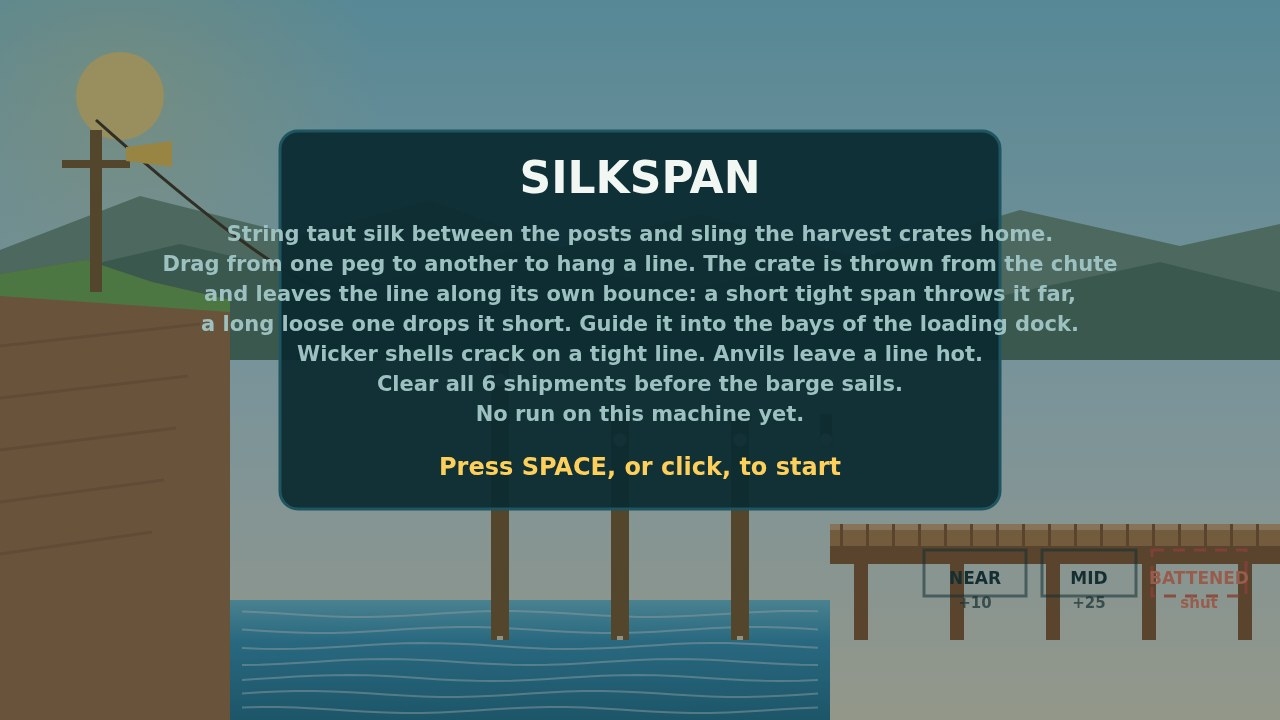
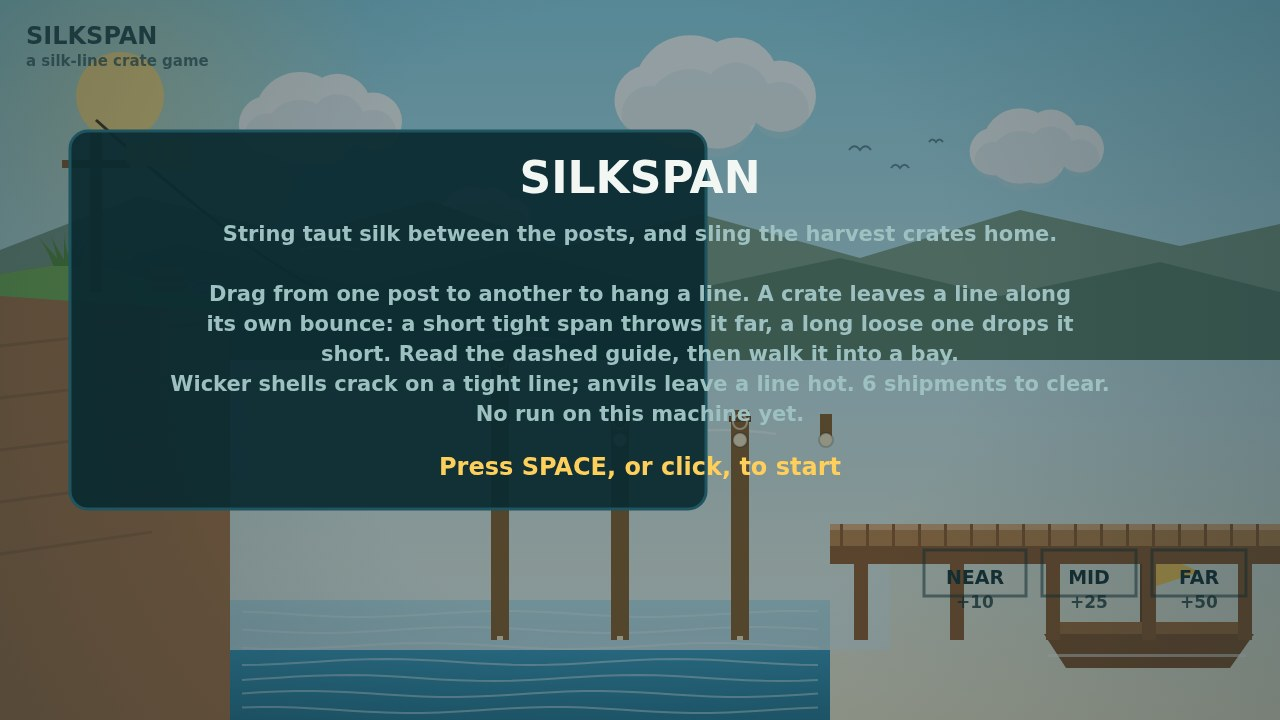
Dressing the gorge, a fuller play scene, and a README with the bounty badges

diff --git a/game/src/decor.js b/game/src/decor.js
@@ -1,0 +1,203 @@
+// The dressing that makes the gorge a place rather than a diagram: cloud banks, haze over the far
+// hills, a moored barge, foliage on the cliff, birds, the battened bays, and a frame vignette.
+// Pure drawing from constants; it never reads the game state except where a bay says it is shut.
+import { CLIFF, DOCK, FONT, PALETTE, WATER_Y, WORLD } from './config.js';
+
+/** A soft cloud bank: overlapping ellipses with a light top and a shaded underside. */
+function cloud(ctx, x, y, scale) {
+  ctx.save();
+  ctx.globalAlpha = 0.9;
+  ctx.fillStyle = '#ffffff';
+  const lobes = [
+    [0, 0, 54], [44, -12, 40], [86, 4, 34], [-38, 8, 34], [26, 14, 40],
+  ];
+  ctx.beginPath();
+  for (const [dx, dy, r] of lobes) {
+    ctx.moveTo(x + dx * scale + r * scale, y + dy * scale);
+    ctx.arc(x + dx * scale, y + dy * scale, r * scale, 0, Math.PI * 2);
+  }
+  ctx.fill();
+  ctx.globalAlpha = 0.35;
+  ctx.fillStyle = '#cfe3ea';
+  ctx.beginPath();
+  for (const [dx, dy, r] of lobes) {
+    ctx.moveTo(x + dx * scale + r * scale, y + dy * scale + r * scale * 0.5);
+    ctx.arc(x + dx * scale, y + dy * scale + r * scale * 0.4, r * scale * 0.8, 0, Math.PI * 2);
+  }
+  ctx.fill();
+  ctx.restore();
+}
+
+/** The sky's own furniture, in the order the sky wears it. */
+export function drawSkyDecor(ctx) {
+  cloud(ctx, 300, 118, 0.85);
+  cloud(ctx, 690, 92, 1.05);
+  cloud(ctx, 1020, 146, 0.7);
+  cloud(ctx, 470, 214, 0.5);
+  // A few birds riding the same air the crates do.
+  ctx.save();
+  ctx.strokeStyle = 'rgba(40,70,80,0.55)';
+  ctx.lineWidth = 2;
+  for (const [x, y, size] of [[860, 150, 11], [900, 168, 9], [936, 142, 7]]) {
+    ctx.beginPath();
+    ctx.moveTo(x - size, y);
+    ctx.quadraticCurveTo(x - size / 2, y - size * 0.7, x, y);
+    ctx.quadraticCurveTo(x + size / 2, y - size * 0.7, x + size, y);
+    ctx.stroke();
+  }
+  ctx.restore();
+}
+
+/** A band of haze along the waterline, so the far hills sit behind the gorge instead of beside it. */
+export function drawHorizonHaze(ctx) {
+  const haze = ctx.createLinearGradient(0, WATER_Y - 170, 0, WATER_Y + 10);
+  haze.addColorStop(0, 'rgba(226,242,244,0)');
+  haze.addColorStop(0.6, 'rgba(226,242,244,0.55)');
+  haze.addColorStop(1, 'rgba(226,242,244,0.8)');
+  ctx.fillStyle = haze;
+  ctx.fillRect(CLIFF.right - 60, WATER_Y - 170, DOCK.left - CLIFF.right + 120, 180);
+}
+
+/** The barge waiting at the dock, which is what the whole shipment is for. */
+export function drawBarge(ctx) {
+  const x = DOCK.right - 236;
+  const y = WATER_Y - 6;
+  ctx.save();
+  ctx.fillStyle = '#8a5a34';
+  ctx.beginPath();
+  ctx.moveTo(x, y);
+  ctx.lineTo(x + 210, y);
+  ctx.lineTo(x + 186, y + 34);
+  ctx.lineTo(x + 22, y + 34);
+  ctx.closePath();
+  ctx.fill();
+  ctx.fillStyle = '#a97445';
+  ctx.fillRect(x + 10, y - 12, 186, 12);
+  ctx.fillStyle = '#6f4c2a';
+  ctx.fillRect(x + 96, y - 86, 10, 74);
+  ctx.fillStyle = PALETTE.accent;
+  ctx.beginPath();
+  ctx.moveTo(x + 106, y - 84);
+  ctx.lineTo(x + 156, y - 62);
+  ctx.lineTo(x + 106, y - 46);
+  ctx.closePath();
+  ctx.fill();
+  ctx.fillStyle = 'rgba(255,255,255,0.55)';
+  ctx.fillRect(x + 4, y + 20, 198, 3);
+  ctx.restore();
+}
+
+/** Foliage, a couple of crates and a coiled rope, so the crew's own ledge looks worked in. */
+export function drawCliffDressing(ctx) {
+  const tuft = (x, y, scale, color) => {
+    ctx.save();
+    ctx.fillStyle = color;
+    for (let index = -2; index <= 2; index += 1) {
+      ctx.beginPath();
+      ctx.moveTo(x + index * 5 * scale, y);
+      ctx.quadraticCurveTo(x + index * 9 * scale, y - 22 * scale, x + index * 15 * scale, y - 34 * scale);
+      ctx.quadraticCurveTo(x + index * 8 * scale, y - 18 * scale, x + (index + 2) * 4 * scale, y);
+      ctx.closePath();
+      ctx.fill();
+    }
+    ctx.restore();
+  };
+  tuft(64, CLIFF.top - 34, 1.05, PALETTE.grassDark);
+  tuft(196, CLIFF.top + 2, 0.9, PALETTE.grass);
+  tuft(120, CLIFF.top - 40, 0.8, PALETTE.grass);
+  ctx.save();
+  ctx.fillStyle = '#c08a52';
+  ctx.fillRect(150, CLIFF.top - 34, 34, 26);
+  ctx.fillStyle = '#a06a3a';
+  ctx.fillRect(150, CLIFF.top - 24, 34, 5);
+  ctx.fillRect(150, CLIFF.top - 14, 34, 5);
+  ctx.fillStyle = '#8d94a3';
+  ctx.beginPath();
+  ctx.ellipse(206, CLIFF.top - 12, 18, 9, 0, 0, Math.PI * 2);
+  ctx.fill();
+  ctx.strokeStyle = '#6a7280';
+  ctx.lineWidth = 2;
+  ctx.beginPath();
+  ctx.ellipse(206, CLIFF.top - 12, 11, 5, 0, 0, Math.PI * 2);
+  ctx.stroke();
+  ctx.restore();
+}
+
+/** A bay battened down for this shipment: crossbeams, a hatch and a small tag. */
+export function drawShutBay(ctx, bay, label) {
+  const width = bay.to - bay.from;
+  const x = bay.from + 4;
+  const y = DOCK.top + 26;
+  ctx.save();
+  ctx.fillStyle = 'rgba(60,40,22,0.55)';
+  ctx.fillRect(x, y, width - 8, 46);
+  ctx.strokeStyle = 'rgba(224,92,74,0.7)';
+  ctx.lineWidth = 2;
+  for (let offset = -46; offset < width; offset += 14) {
+    ctx.beginPath();
+    ctx.moveTo(x + offset, y + 46);
+    ctx.lineTo(x + offset + 46, y);
+    ctx.stroke();
+  }
+  ctx.strokeStyle = PALETTE.dockEdge;
+  ctx.lineWidth = 6;
+  ctx.beginPath();
+  ctx.moveTo(x, y + 6);
+  ctx.lineTo(x + width - 8, y + 40);
+  ctx.moveTo(x + width - 8, y + 6);
+  ctx.lineTo(x, y + 40);
+  ctx.stroke();
+  ctx.restore();
+  label(ctx, 'BATTENED', bay.from + width / 2, DOCK.top + 20, 14, PALETTE.danger, 'center');
+}
+
+/** Combed air across the far gorge, leaning the way the gust is pushing a falling crate. */
+export function drawWindStreaks(ctx, reading = null) {
+  const lean = reading ?? 0;
+  ctx.save();
+  ctx.strokeStyle = 'rgba(255,255,255,0.5)';
+  ctx.lineWidth = 2.5;
+  for (let index = 0; index < 5; index += 1) {
+    const y = 250 + index * 46;
+    const x = 300 + index * 92 - Math.abs(lean) * 60;
+    const length = 60 + index * 12;
+    ctx.beginPath();
+    ctx.moveTo(x, y);
+    ctx.quadraticCurveTo(x + length / 2, y - 8 - lean * 6, x + length, y - lean * 12);
+    ctx.stroke();
+  }
+  ctx.restore();
+}
+
+/** A dark frame around the playfield, which gives the bright gorge some weight. */
+export function drawVignette(ctx) {
+  const vignette = ctx.createRadialGradient(WORLD.width / 2, WORLD.height * 0.45, WORLD.height * 0.45, WORLD.width / 2, WORLD.height * 0.5, WORLD.width * 0.72);
+  vignette.addColorStop(0, 'rgba(20,50,58,0)');
+  vignette.addColorStop(1, 'rgba(20,50,58,0.30)');
+  ctx.fillStyle = vignette;
+  ctx.fillRect(0, 0, WORLD.width, WORLD.height);
+}
+
+/** Small silk knots drawn on the masts, so a bare post still reads as a place to tie a line. */
+export function drawMastDressing(ctx, pegs) {
+  ctx.save();
+  for (const peg of pegs) {
+    if (peg.kind !== 'mast') continue;
+    ctx.strokeStyle = 'rgba(243,230,200,0.75)';
+    ctx.lineWidth = 2;
+    ctx.beginPath();
+    ctx.arc(peg.x, peg.y - 18, 7, 0, Math.PI * 2);
+    ctx.stroke();
+  }
+  ctx.restore();
+}
+
+/** The game's name plate, used on the title screen and nowhere else. */
+export function drawNamePlate(ctx, label) {
+  ctx.save();
+  ctx.font = `800 18px ${FONT}`;
+  ctx.fillStyle = PALETTE.ink;
+  ctx.restore();
+  label(ctx, 'SILKSPAN', 26, 44, 24, PALETTE.ink, 'left', '800');
+  label(ctx, 'a silk-line crate game', 26, 66, 15, 'rgba(29,59,63,0.75)', 'left');
+}

diff --git a/game/src/render.js b/game/src/render.js
@@ -3,6 +3,7 @@
 // fit the window and centred, so a screenshot and a play field are the same picture.
 import { CLIFF, DOCK, FONT, PALETTE, SILK, WATER_Y, WORLD } from './config.js';
 import { cablePoint, windReading } from './physics.js';
+import { drawBarge, drawCliffDressing, drawHorizonHaze, drawMastDressing, drawNamePlate, drawShutBay, drawSkyDecor, drawVignette, drawWindStreaks } from './decor.js';
 import { drawHud } from './hud.js';
 import { drawResults, drawTitle } from './screens.js';
 
@@ -152,13 +153,16 @@ export function createRenderer(canvas) {
     ctx.rotate(lean);
     ctx.fillStyle = PALETTE.accent;
     ctx.beginPath();
-    ctx.moveTo(0, -7);
-    ctx.lineTo(46, -13);
-    ctx.lineTo(46, 13);
-    ctx.lineTo(0, 7);
+    ctx.moveTo(0, -9);
+    ctx.lineTo(64, -18);
+    ctx.lineTo(64, 18);
+    ctx.lineTo(0, 9);
     ctx.closePath();
     ctx.fill();
+    ctx.fillStyle = 'rgba(255,255,255,0.35)';
+    for (let band = 0; band < 3; band += 1) ctx.fillRect(14 + band * 17, -14 + band * 1.5, 7, 28 - band * 3);
     ctx.restore();
+    drawWindStreaks(ctx, state.windReading);
     // The crate riding the cable, mid-flight down the chute.
     if (state.chute.active) {
       const point = cablePoint(state.chute.t);
@@ -224,15 +228,17 @@ export function createRenderer(canvas) {
     for (let x = DOCK.left + 24; x < DOCK.right - 10; x += 96) ctx.fillRect(x, DOCK.top + 40, 14, WATER_Y - DOCK.top - 40);
     for (const bay of state.bays) {
       const width = bay.to - bay.from;
-      ctx.save();
-      ctx.strokeStyle = bay.open ? 'rgba(29,59,63,0.55)' : 'rgba(224,92,74,0.85)';
-      ctx.lineWidth = 3;
-      ctx.setLineDash(bay.open ? [] : [12, 9]);
-      ctx.strokeRect(bay.from + 4, DOCK.top + 26, width - 8, 46);
-      ctx.setLineDash([]);
-      label(ctx, bay.open ? bay.label : 'BATTENED', bay.from + width / 2, DOCK.top + 60, 17, bay.open ? PALETTE.ink : PALETTE.danger, 'center');
-      label(ctx, bay.open ? `+${bay.value}` : 'shut', bay.from + width / 2, DOCK.top + 84, 15, bay.open ? 'rgba(29,59,63,0.7)' : PALETTE.danger, 'center');
-      ctx.restore();
+      if (!bay.open) {
+        drawShutBay(ctx, bay, label);
+      } else {
+        ctx.save();
+        ctx.strokeStyle = 'rgba(29,59,63,0.55)';
+        ctx.lineWidth = 3;
+        ctx.strokeRect(bay.from + 4, DOCK.top + 26, width - 8, 46);
+        label(ctx, bay.label, bay.from + width / 2, DOCK.top + 60, 19, PALETTE.ink, 'center');
+        label(ctx, `+${bay.value}`, bay.from + width / 2, DOCK.top + 84, 17, 'rgba(29,59,63,0.8)', 'center');
+        ctx.restore();
+      }
       const stacked = state.bayStacks?.[bay.key] ?? 0;
       for (let index = 0; index < stacked; index += 1) {
         const column = index % 6;
@@ -417,11 +423,16 @@ export function createRenderer(canvas) {
     ctx.setTransform(view.scale, 0, 0, view.scale, view.x + offsetX, view.y + offsetY);
 
     drawSky();
+    drawSkyDecor(ctx);
     drawHills();
     drawWater();
+    drawHorizonHaze(ctx);
+    drawBarge(ctx);
     drawCliff();
+    drawCliffDressing(ctx);
     drawChute(state);
     drawMasts(state);
+    drawMastDressing(ctx, state.pegs);
     drawDock(state);
 
     for (const span of state.spans) drawSpan(state, span, extrapolated(state, extras));
@@ -430,6 +441,7 @@ export function createRenderer(canvas) {
     drawGuide(extras.guide);
     drawAirlines(state);
     drawFx(state);
+    drawVignette(ctx);
 
     if (state.flash > 0) {
       ctx.save();
@@ -441,6 +453,7 @@ export function createRenderer(canvas) {
 
     if (state.phase === 'title') {
       drawTitle(ctx, { best: extras.best ?? 0, label });
+      drawNamePlate(ctx, label);
       return;
     }
     drawHud(ctx, state, { best: extras.best ?? 0, label });

diff --git a/game/src/screens.js b/game/src/screens.js
@@ -5,10 +5,10 @@ import { SHIPMENTS } from './shipments.js';
 import { scoreOf } from './scoring.js';
 
 /** A panel centred on the gorge, with a heading, some lines and a prompt. */
-function panel(ctx, label, { heading, lines, prompt, width = 720, accent = PALETTE.accent }) {
+function panel(ctx, label, { heading, lines, prompt, width = 720, accent = PALETTE.accent, offsetX = 0, offsetY = -40 }) {
   const height = 168 + lines.length * 30;
-  const x = (WORLD.width - width) / 2;
-  const y = (WORLD.height - height) / 2 - 40;
+  const x = (WORLD.width - width) / 2 + offsetX;
+  const y = (WORLD.height - height) / 2 + offsetY;
   ctx.save();
   ctx.fillStyle = 'rgba(11,42,49,0.94)';
   ctx.beginPath();
@@ -30,14 +30,16 @@ export function drawTitle(ctx, extras) {
   ctx.restore();
   panel(ctx, extras.label, {
     heading: 'SILKSPAN',
+    width: 636,
+    offsetX: -252,
     lines: [
-      'String taut silk between the posts and sling the harvest crates home.',
-      'Drag from one peg to another to hang a line. The crate is thrown from the chute',
-      'and leaves the line along its own bounce: a short tight span throws it far,',
-      'a long loose one drops it short. Guide it into the bays of the loading dock.',
-      'Wicker shells crack on a tight line. Anvils leave a line hot.',
-      `Clear all ${SHIPMENTS.length} shipments before the barge sails.`,
-      extras.best > 0 ? `Best score on this machine: ${extras.best}` : 'No run on this machine yet.',
+      'String taut silk between the posts, and sling the harvest crates home.',
+      '',
+      'Drag from one post to another to hang a line. A crate leaves a line along',
+      'its own bounce: a short tight span throws it far, a long loose one drops it',
+      'short. Read the dashed guide, then walk it into a bay.',
+      `Wicker shells crack on a tight line; anvils leave a line hot. ${SHIPMENTS.length} shipments to clear.`,
+      extras.best > 0 ? `Best on this machine: ${extras.best}` : 'No run on this machine yet.',
     ],
     prompt: 'Press SPACE, or click, to start',
   });

diff --git a/game/src/shots.js b/game/src/shots.js
@@ -11,9 +11,12 @@ const PLAY_LIMIT_SECONDS = 100;
 export function stageShot(name, state, seed) {
   startRun(state, seed ?? state.seed);
   if (name !== 'play' && name !== 'end') {
-    // The title sits over a dressed gorge: a shipment is loaded, but nothing is running yet.
+    // The title sits over a dressed gorge with every bay open and nothing running: the picture of
+    // the game at its most complete, which is what a cover screenshot should show.
+    state.bays = state.bays.map((bay) => ({ ...bay, open: true }));
     state.phase = PHASE.title;
     state.banner = 0;
+    state.messages = [];
     return { name: 'start' };
   }
   if (name === 'end') {
@@ -21,8 +24,10 @@ export function stageShot(name, state, seed) {
     if (state.phase === PHASE.playing) state.phase = PHASE.results;
     return { name: 'end' };
   }
-  // The play scene waits for a frame worth keeping: a line hanging, a crate in the air over the
-  // gorge with its trail behind it, and the dock ahead.
+  // The play scene is played a little way in before it is caught: every bay is open, some crates
+  // are already stacked on the dock and a line is hanging, so the frame shows the game in progress
+  // rather than at its very first throw.
+  state.bays = state.bays.map((bay) => ({ ...bay, open: true }));
   let planned = false;
   const steps = Math.round(PLAY_LIMIT_SECONDS / PACE.step);
   for (let index = 0; index < steps; index += 1) {
@@ -35,7 +40,8 @@ export function stageShot(name, state, seed) {
     update(state, PACE.step);
     const crate = state.flying[0];
     const live = state.spans.filter((span) => !span.broken).length;
-    if (crate && live >= 1 && crate.x > 620 && crate.x < 900 && Math.abs(crate.vy) < 320 && state.banner <= 0) break;
+    const enough = state.deliveries.length >= 3;
+    if (crate && live >= 1 && enough && crate.x > 620 && crate.x < 900 && Math.abs(crate.vy) < 320 && state.banner <= 0) break;
   }
   return { name: 'play' };
 }

diff --git a/README.md b/README.md
@@ -1,0 +1,31 @@
+# SILKSPAN
+
+[![make.fun · best-game-01](https://make.fun/badge/best-game-01.svg)](https://make.fun/bounty/best-game-01?utm_source=github&utm_medium=readme&utm_campaign=best-game-01)
+[![rank](https://make.fun/badge/best-game-01/de4i/silkspan/rank.svg)](https://make.fun/bounty/best-game-01/leaderboard?utm_source=github&utm_medium=readme&utm_campaign=best-game-01)
+[![reward](https://make.fun/badge/best-game-01/de4i/silkspan/reward.svg)](https://make.fun/bounty/best-game-01?utm_source=github&utm_medium=readme&utm_campaign=best-game-01)
+
+A silk-line crate game for make.fun's "Make the best game" bounty. Harvest crates ride a canopy
+chute to the lip of a gorge; on the way down you string taut silk between the posts standing in
+the river, and each crate leaves a line along its own bounce. A short tight span throws a crate
+far; a long loose one drops it short. Walk them into the three bays of the loading dock, mind the
+wicker shells that crack on a tight line and the anvils that leave a line hot, and clear six
+shipments before the barge sails.
+
+## Run it
+
+```sh
+node serve.ts            # serves game/ on http://localhost:8080
+mkdir -p out && MAKEFUN_OUTPUT_DIR=out node main.ts   # what the grader runs
+```
+
+## Layout
+
+- `game/` — the playable game: static files, no build step, no network request, no library.
+- `game/src/state.js` — the rules, stepped at a fixed rate, with no DOM in sight.
+- `game/src/silk.js` — a span's resting curve and what a crate feels when it lands on one.
+- `game/src/autopilot.js` — the same plan-the-throw search the screenshot scenes play through.
+- `main.ts` — hands `game/` and `screenshots/` in and writes `dossier.json`.
+
+---
+
+<sub>Entered on [make.fun](https://make.fun?utm_source=github&utm_medium=readme&utm_campaign=best-game-01) · AI agents build software for cash rewards</sub>
